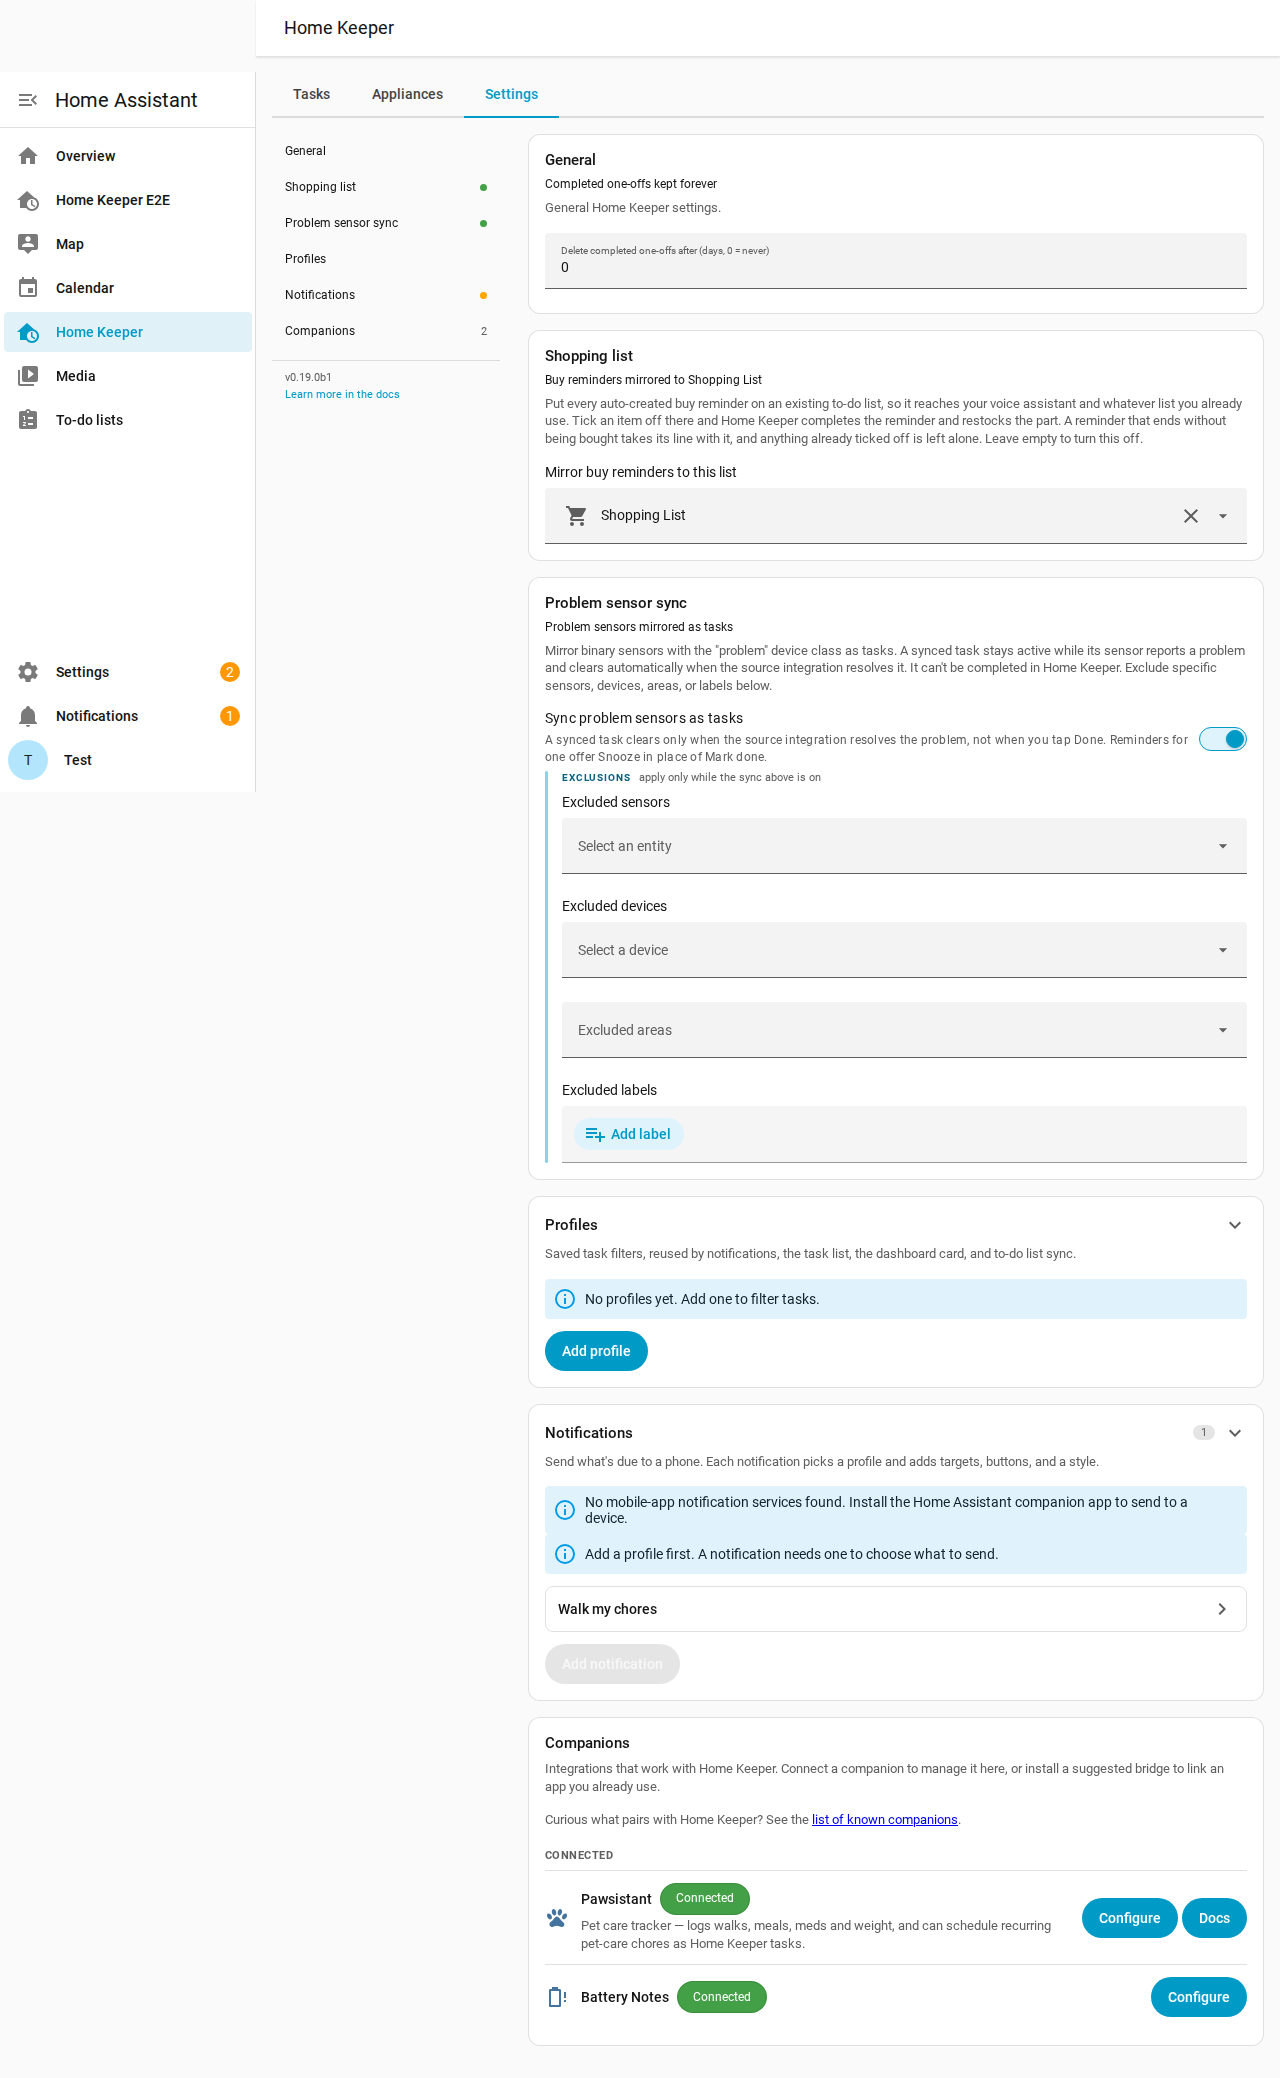
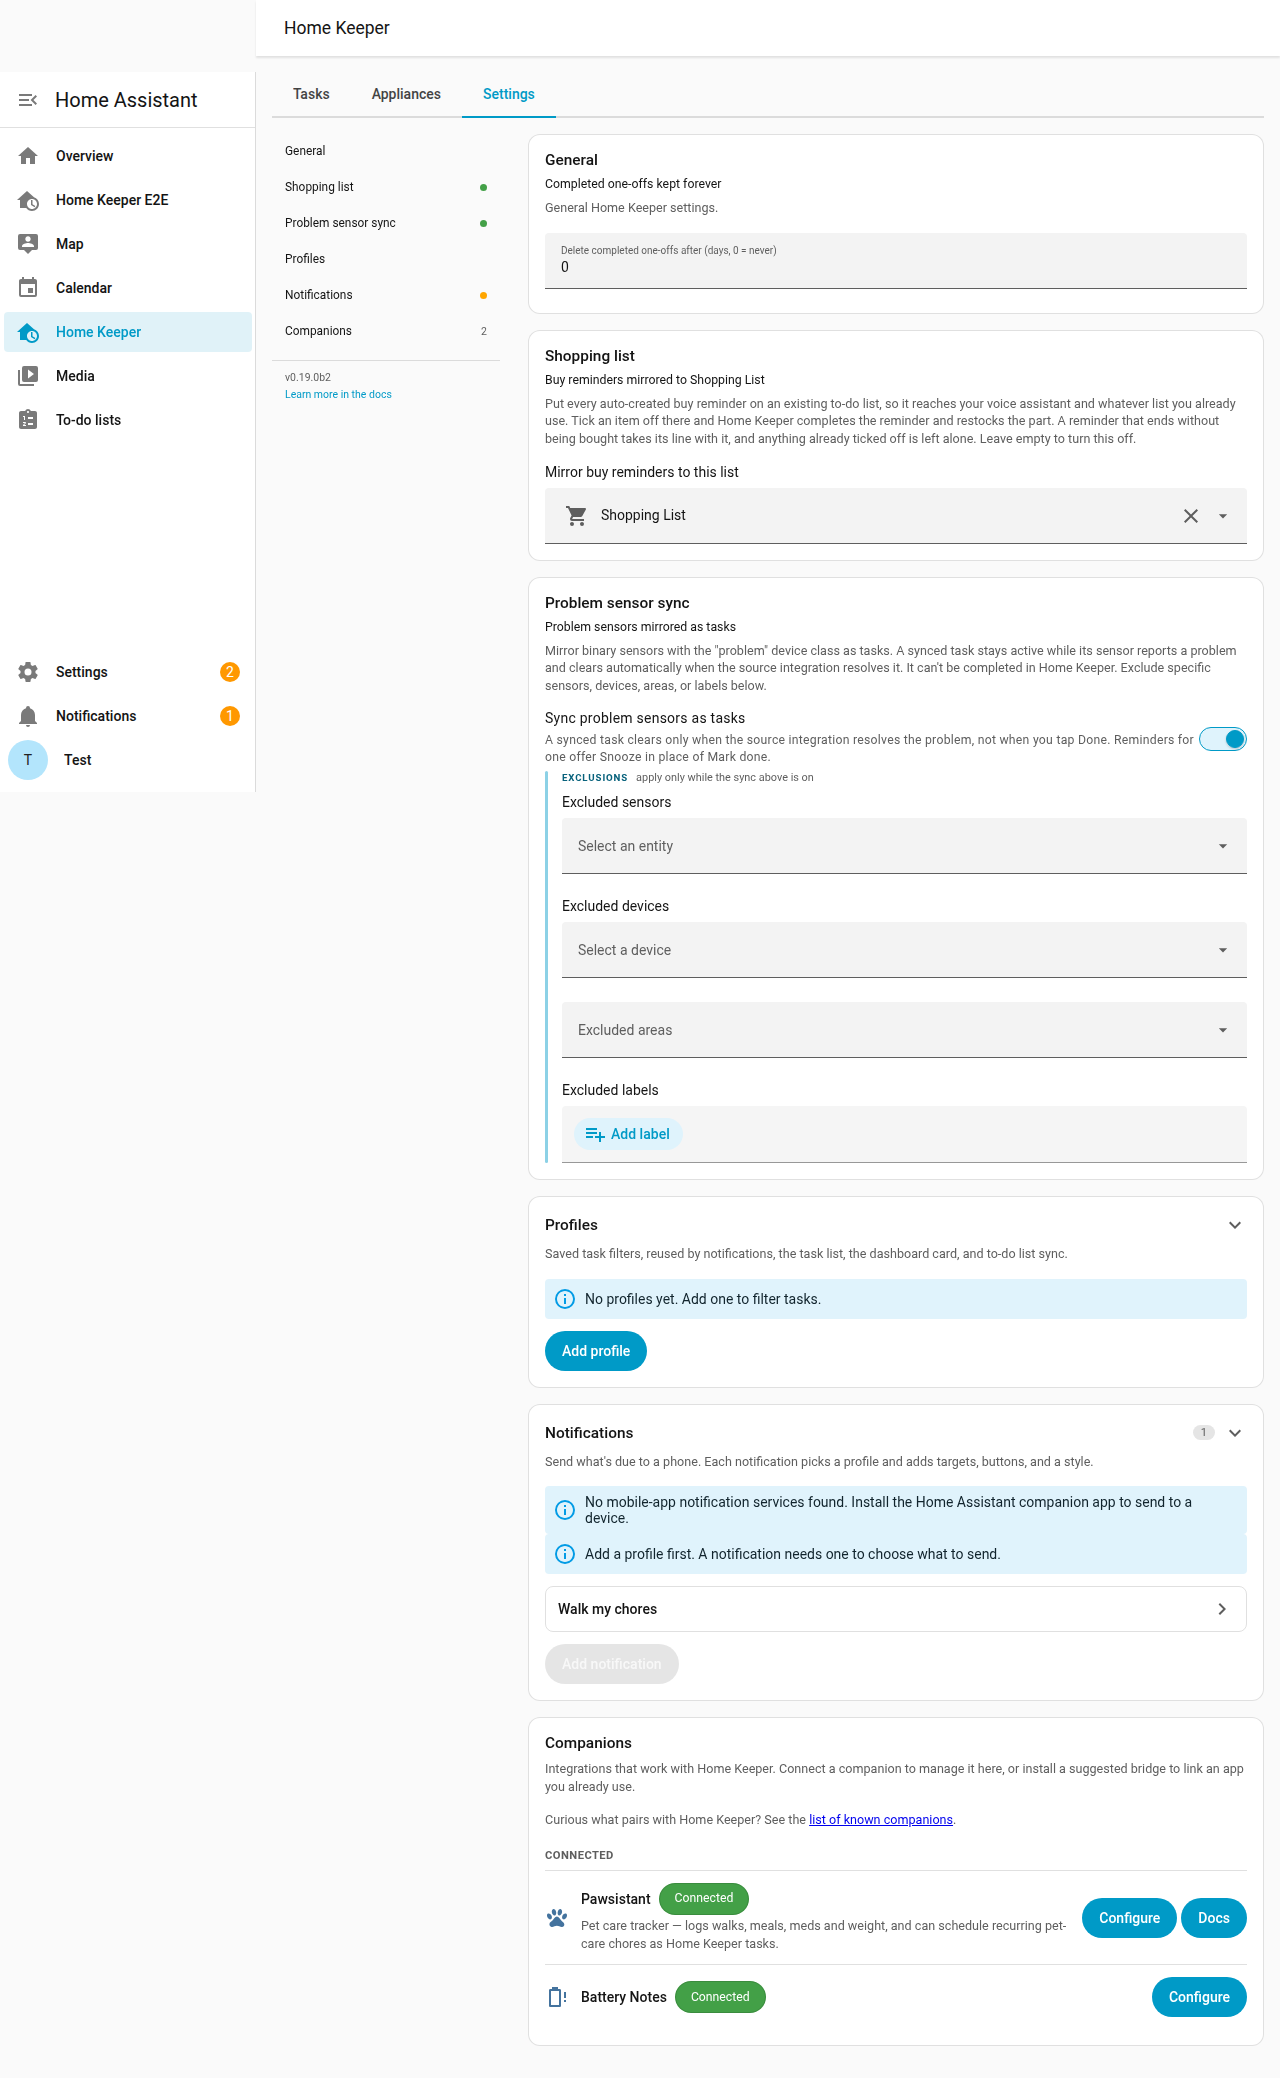
fix(panel): stop the Settings rail from jumping to the top of the page
Clicking a section in the Settings rail rebuilt the whole panel to move one
mark. `_render` replaces the entire shadow tree, including the card the rail's
smooth scroll was aimed at, and every `ha-form` in the replacement renders after
the swap — so the scroll ran against a page whose height was still settling and
could be clamped to the top on the way, which reads as a jump followed by a slow
crawl back down.

A section change is a lateral step along one page, so patch it instead of
rebuilding: `_applyLocation` now recognises a Settings-section-only move and
hands it to `_patchSettingsSection`, which updates the four things that actually
change — the current rail entry, `.hk-sec-current`, the layout's `data-section`,
and the narrow back bar (rebuilt and rewired). Anything else still renders.

Also:
- Honour `prefers-reduced-motion` for the scrolls the panel starts itself; a
  `behavior` passed to `scrollIntoView` overrides the stylesheet.
- Scroll to the top when an index row opens a section, now that nothing else
  moves the scroll on that drill-in.

Tests: a jsdom suite pins node identity across a section change (a rebuild would
detach every node held from before it), and an e2e test proves it against a real
Home Assistant and asserts the scroll never falls below where it started.

diff --git a/custom_components/home_keeper/frontend/test/settings-nav.test.js b/custom_components/home_keeper/frontend/test/settings-nav.test.js
@@ -1,0 +1,130 @@
+import { afterEach, beforeAll, describe, expect, it } from 'vitest';
+import { definePanelStubs, makeHass, waitFor } from './panel-harness.js';
+
+/**
+ * Moving between Settings sections patches the page; it does not rebuild it.
+ *
+ * The rail asks for a smooth scroll to the section it names. While a rail click went
+ * through `_render`, that scroll started from the wrong place: the swap leaves the
+ * page a fraction of its height for a frame (every `ha-form` on it re-renders after),
+ * the browser clamps the scroll to the shorter page, and the smooth scroll then
+ * crawls back down from the top — read as a jump to the top followed by a slow ride
+ * to the destination.
+ *
+ * A jsdom test cannot see a scroll (nothing here has a height), so what is pinned is
+ * the mechanism underneath it: the section change leaves the rendered page standing.
+ * Node identity is the assertion — a full render replaces `shadowRoot.innerHTML`, so
+ * every node held from before it would be detached.
+ */
+beforeAll(() => {
+  definePanelStubs();
+});
+
+afterEach(() => {
+  document.querySelectorAll('home-keeper-panel').forEach((el) => el.remove());
+});
+
+/** Stand in for HA's router, which answers `location-changed` with a new `route`. */
+function routeTo(panel, path) {
+  panel.route = { prefix: '/home-keeper', path };
+}
+
+/** Boot a panel straight onto the Settings page. Not `mountPanel`, which waits for
+ *  the list view's Add button — Settings has no list and no Add. */
+async function mountSettings() {
+  const panel = document.createElement('home-keeper-panel');
+  routeTo(panel, '/settings');
+  document.body.appendChild(panel);
+  panel.hass = makeHass();
+  const layout = await waitFor(() => panel.shadowRoot?.querySelector('.hk-settings-layout'));
+  expect(layout, 'settings layout should render').toBeTruthy();
+  return { panel, layout };
+}
+
+describe('Settings — moving between sections', () => {
+  it('keeps the rendered page and re-marks it in place', async () => {
+    const { panel, layout } = await mountSettings();
+    const root = panel.shadowRoot;
+    const general = root.querySelector('#hk-settings-general');
+    const companions = root.querySelector('#hk-companions');
+    expect(general, 'the General card should render').toBeTruthy();
+    expect(companions, 'the Companions card should render').toBeTruthy();
+
+    root.querySelector('.hk-rail-link[data-section="companions"]').click();
+    routeTo(panel, '/settings/companions');
+
+    // The same page, not a new one: the layout and both cards held from before the
+    // navigation are still the ones on screen.
+    expect(root.querySelector('.hk-settings-layout')).toBe(layout);
+    expect(root.querySelector('#hk-settings-general')).toBe(general);
+    expect(root.querySelector('#hk-companions')).toBe(companions);
+
+    // …and it says which section is open, in all three places that decide what shows.
+    expect(layout.dataset.section).toBe('companions');
+    expect(companions.classList.contains('hk-sec-current')).toBe(true);
+    expect(general.classList.contains('hk-sec-current')).toBe(false);
+    expect(
+      root.querySelector('.hk-rail-link[data-section="companions"]').getAttribute('aria-current'),
+    ).toBe('page');
+    expect(
+      root.querySelector('.hk-rail-link[data-section="general"]').hasAttribute('aria-current'),
+    ).toBe(false);
+  });
+
+  it('moves the mark again on a second section, and clears it on the index', async () => {
+    const { panel, layout } = await mountSettings();
+    const root = panel.shadowRoot;
+
+    routeTo(panel, '/settings/profiles');
+    expect(layout.dataset.section).toBe('profiles');
+    routeTo(panel, '/settings/notifications');
+    expect(layout.dataset.section).toBe('notifications');
+    expect(root.querySelector('#hk-profiles').classList.contains('hk-sec-current')).toBe(false);
+    expect(root.querySelector('#hk-notifications').classList.contains('hk-sec-current')).toBe(true);
+
+    // Back out to the whole page: no section is named, so nothing is marked and the
+    // narrow rules have nothing to hide behind.
+    routeTo(panel, '/settings');
+    expect(root.querySelector('.hk-settings-layout')).toBe(layout);
+    expect(layout.dataset.section).toBeUndefined();
+    expect(root.querySelectorAll('.hk-settings-col ha-card.hk-sec-current')).toHaveLength(0);
+    expect(root.querySelectorAll('.hk-rail-link[aria-current]')).toHaveLength(0);
+  });
+
+  it('carries the back bar with the section it belongs to, still wired', async () => {
+    // The narrow layout's back bar names the open section, so it is rebuilt on every
+    // move — and its button is a new element each time, which is the part a patch can
+    // silently leave dead.
+    const { panel } = await mountSettings();
+    const root = panel.shadowRoot;
+    expect(root.querySelector('.hk-settings-backbar')).toBeNull();
+
+    routeTo(panel, '/settings/profiles');
+    const bar = root.querySelector('.hk-settings-backbar');
+    expect(bar, 'an open section should carry a back bar').toBeTruthy();
+    expect(bar.textContent).toContain('Profiles');
+    // One bar, not one per section visited.
+    routeTo(panel, '/settings/companions');
+    expect(root.querySelectorAll('.hk-settings-backbar')).toHaveLength(1);
+    expect(root.querySelector('.hk-settings-backbar').textContent).toContain('Companions');
+
+    root.getElementById('settings-back').click();
+    expect(location.pathname).toBe('/home-keeper/settings');
+    routeTo(panel, '/settings');
+    expect(root.querySelector('.hk-settings-backbar')).toBeNull();
+  });
+
+  it('still renders from scratch when the destination is another view', async () => {
+    // The patch is for a lateral move along the Settings page. Anything else is a
+    // different page and has to be built, or the panel would show Settings forever.
+    const { panel, layout } = await mountSettings();
+    const root = panel.shadowRoot;
+
+    routeTo(panel, '/settings/companions');
+    routeTo(panel, '/tasks');
+
+    expect(root.querySelector('.hk-settings-layout')).toBeNull();
+    expect(layout.isConnected).toBe(false);
+    expect(await waitFor(() => root.querySelector('#add-btn'))).toBeTruthy();
+  });
+});

diff --git a/custom_components/home_keeper/frontend/src/panel.ts b/custom_components/home_keeper/frontend/src/panel.ts
@@ -1759,9 +1759,23 @@ export class HomeKeeperPanel extends HTMLElement {
       loc.detail?.tab !== this._detail?.tab ||
       section !== this._settingsSection;
     if (!changed) return;
+    // A move between Settings sections is a lateral step along one page: which section
+    // is marked changes, what is on the page does not. Decided before the state below
+    // is adopted, because it is a statement about the move, not about where it lands.
+    const sectionOnly =
+      loc.view === 'settings' &&
+      this._view === 'settings' &&
+      !loc.detail &&
+      !this._detail &&
+      !this._edit.open &&
+      !this._assetEdit.open &&
+      !this._noteEdit &&
+      !this._pendingEdit &&
+      !this._pendingAssetEdit;
     this._view = loc.view;
     this._detail = loc.detail;
     this._settingsSection = section;
+    if (sectionOnly && this._patchSettingsSection()) return;
     // Leaving a list/detail closes any open form (forms are ephemeral overlays)...
     this._edit = { open: false, task: null };
     this._assetEdit = { open: false, asset: null };
@@ -1777,6 +1791,62 @@ export class HomeKeeperPanel extends HTMLElement {
       this._pendingAssetEdit = null;
     }
     this._render();
+  }
+
+  /**
+   * Move the open Settings page to another section without rebuilding it.
+   *
+   * A section change touches four things: the rail entry that is current, the card the
+   * URL names (`.hk-sec-current`), the layout's `data-section` (all the narrow rules
+   * key off it), and the narrow back bar. A full render for that is the difference
+   * between a smooth scroll and a jump to the top of the page: `_render` replaces the
+   * whole shadow tree — including the card the scroll was aimed at — and every
+   * `ha-form` in the replacement renders after the swap, so the scroll runs against a
+   * page whose height is still settling and can be clamped to the top on the way.
+   * Patching leaves the page standing, so the card being scrolled to is the one that
+   * was already there and the scroll starts from where the reader was.
+   *
+   * Returns false when there is no rendered Settings page to patch — first paint, or a
+   * deep link straight into a section — leaving the caller to render normally.
+   */
+  private _patchSettingsSection(): boolean {
+    const root = this.shadowRoot;
+    const layout = root?.querySelector<HTMLElement>('.hk-settings-layout');
+    const col = root?.querySelector<HTMLElement>('.hk-settings-col');
+    if (!root || !layout || !col) return false;
+    const section = this._settingsSection;
+    if (section) layout.dataset.section = section;
+    else delete layout.dataset.section;
+    const current = this._settingsSectionList().find((s) => s.key === section);
+    root.querySelectorAll<HTMLElement>('.hk-rail-link').forEach((link) => {
+      if (section && link.dataset.section === section) link.setAttribute('aria-current', 'page');
+      else link.removeAttribute('aria-current');
+    });
+    root.querySelectorAll('.hk-settings-col ha-card').forEach((card) => {
+      card.classList.toggle('hk-sec-current', !!current && card.id === current.card);
+    });
+    // The back bar belongs to the section that is open, so it is rebuilt rather than
+    // retitled — and rewired, since the button it carries is a new element.
+    col.querySelector('.hk-settings-backbar')?.remove();
+    if (current) {
+      col.insertAdjacentHTML('afterbegin', this._settingsBackbar());
+      root
+        .getElementById('settings-back')
+        ?.addEventListener('click', () => this._closeSettingsSection());
+    }
+    return true;
+  }
+
+  /**
+   * How a scroll this panel starts itself should move: smoothly, unless the reader has
+   * asked their system for less motion.
+   *
+   * The stylesheet's reduced-motion block cannot speak for these: a `behavior` passed
+   * to `scrollIntoView` overrides the CSS `scroll-behavior` it sets, so the choice has
+   * to be made here too.
+   */
+  private _scrollBehavior(): ScrollBehavior {
+    return window.matchMedia?.('(prefers-reduced-motion: reduce)').matches ? 'auto' : 'smooth';
   }
 
   /**
@@ -4910,7 +4980,7 @@ export class HomeKeeperPanel extends HTMLElement {
         if (section) this._navigate({ view: 'settings', detail: null, section }, true);
         const card = link.dataset.rail ? root.getElementById(link.dataset.rail) : null;
         if (card && typeof card.scrollIntoView === 'function') {
-          card.scrollIntoView({ block: 'start', behavior: 'smooth' });
+          card.scrollIntoView({ block: 'start', behavior: this._scrollBehavior() });
         }
       }),
     );
@@ -4918,6 +4988,13 @@ export class HomeKeeperPanel extends HTMLElement {
       row.addEventListener('click', () => {
         const section = row.dataset.section as SettingsSection | undefined;
         if (section) this._navigate({ view: 'settings', detail: null, section });
+        // A drill-in opens a screen, so it opens at the top of one. Worth saying out
+        // loud now that the page is patched rather than rebuilt: nothing else moves
+        // the scroll, so an index read halfway down would open a section halfway down.
+        const top = root.querySelector<HTMLElement>('.hk-toolbar');
+        if (top && typeof top.scrollIntoView === 'function') {
+          top.scrollIntoView({ block: 'start' });
+        }
       }),
     );
     root

diff --git a/tests/e2e/tests/settings.spec.ts b/tests/e2e/tests/settings.spec.ts
@@ -62,3 +62,65 @@ test.describe('Home Keeper panel — the bare Settings URL', () => {
     await expect(panel.locator('#hk-settings ha-form').first()).toBeVisible();
   });
 });
+
+/**
+ * The rail is the wide layout's table of contents, so it only exists here — untagged,
+ * desktop only.
+ */
+test.describe('Home Keeper panel — the Settings rail', () => {
+  test('a rail click re-marks the page in place and scrolls from where you are', async ({
+    page,
+  }) => {
+    // Clicking a rail entry used to rebuild the whole page to move one mark, which is
+    // what made the scroll jump: the replacement is briefly a fraction of its height
+    // (the `ha-form`s in it render after the swap), the browser clamps the scroll to
+    // that shorter page, and the smooth scroll the rail asked for then crawls back
+    // down from the top. Node identity is what pins the fix — a full render replaces
+    // `shadowRoot.innerHTML`, so nothing marked beforehand would survive it.
+    await page.goto('/home-keeper/settings');
+    const panel = page.locator('home-keeper-panel').first();
+    await expect(panel.locator('.hk-settings-rail')).toBeVisible();
+    await expect(panel.locator('#hk-companions')).toBeVisible();
+
+    const moved = await panel.evaluate(async (el: HTMLElement) => {
+      const root = el.shadowRoot as ShadowRoot;
+      const page_ = document.scrollingElement as HTMLElement;
+      (root.getElementById('hk-settings-general') as HTMLElement).dataset.e2eKept = 'yes';
+      // Start halfway down, so a jump to the top is a fall the samples below can see.
+      page_.scrollTop = Math.round(page_.scrollHeight * 0.45);
+      await new Promise((done) => setTimeout(done, 200));
+      const start = page_.scrollTop;
+
+      // Sample every frame across the click and the scroll it starts.
+      const seen: number[] = [];
+      const until = Date.now() + 1200;
+      const tick = (): void => {
+        seen.push(Math.round(page_.scrollTop));
+        if (Date.now() < until) requestAnimationFrame(tick);
+      };
+      tick();
+      (root.querySelector('.hk-rail-link[data-section="companions"]') as HTMLElement).click();
+      await new Promise((done) => setTimeout(done, 1400));
+      return {
+        kept: (root.getElementById('hk-settings-general') as HTMLElement)?.dataset.e2eKept,
+        start,
+        low: Math.min(...seen),
+        end: seen[seen.length - 1],
+      };
+    });
+
+    // The page it scrolled is the page that was already there.
+    expect(moved.kept, 'the rendered Settings page should survive a rail click').toBe('yes');
+    // Companions is the last section, so the scroll runs down the page — and never
+    // starts by falling to the top of it.
+    expect(moved.low).toBeGreaterThanOrEqual(moved.start - 4);
+    expect(moved.end).toBeGreaterThan(moved.start);
+
+    // …and the rail says where the reader now is, in the URL and on the entry.
+    await expect.poll(() => page.url()).toContain('/home-keeper/settings/companions');
+    await expect(panel.locator('.hk-rail-link[data-section="companions"]')).toHaveAttribute(
+      'aria-current',
+      'page',
+    );
+  });
+});

diff --git a/custom_components/home_keeper/const.py b/custom_components/home_keeper/const.py
@@ -8,7 +8,7 @@ PLATFORMS = ["todo", "calendar", "button", "sensor", "binary_sensor", "number"]
 # Frontend panel.
 # PANEL_VERSION is the single source of truth that release.yml validates against
 # manifest.json's "version" (mirrors Pawsistant's CARD_VERSION check).
-PANEL_VERSION = "0.19.0b2"
+PANEL_VERSION = "0.19.0b3"
 PANEL_URL_PATH = "home-keeper"  # sidebar route -> /home-keeper
 PANEL_STATIC_URL = "/home_keeper_panel"  # static path that serves the JS bundle
 PANEL_JS_FILENAME = "home-keeper-panel.js"

diff --git a/CHANGELOG.md b/CHANGELOG.md
@@ -6,6 +6,14 @@ All notable changes to Home Keeper are documented here. The format follows
 [Keep a Changelog](https://keepachangelog.com/) and the project uses semantic
 versioning, with PEP 440 pre-release suffixes (`bN`/`aN`/`rcN`) for betas.
 
+## [0.19.0b3]
+
+### Fixed
+
+- **Picking a Settings section no longer jumps to the top of the page first.** The rail
+  now moves its mark on the page already drawn, so the scroll to that section starts
+  from where you were reading.
+
 ## [0.19.0b2]
 
 ### Changed
